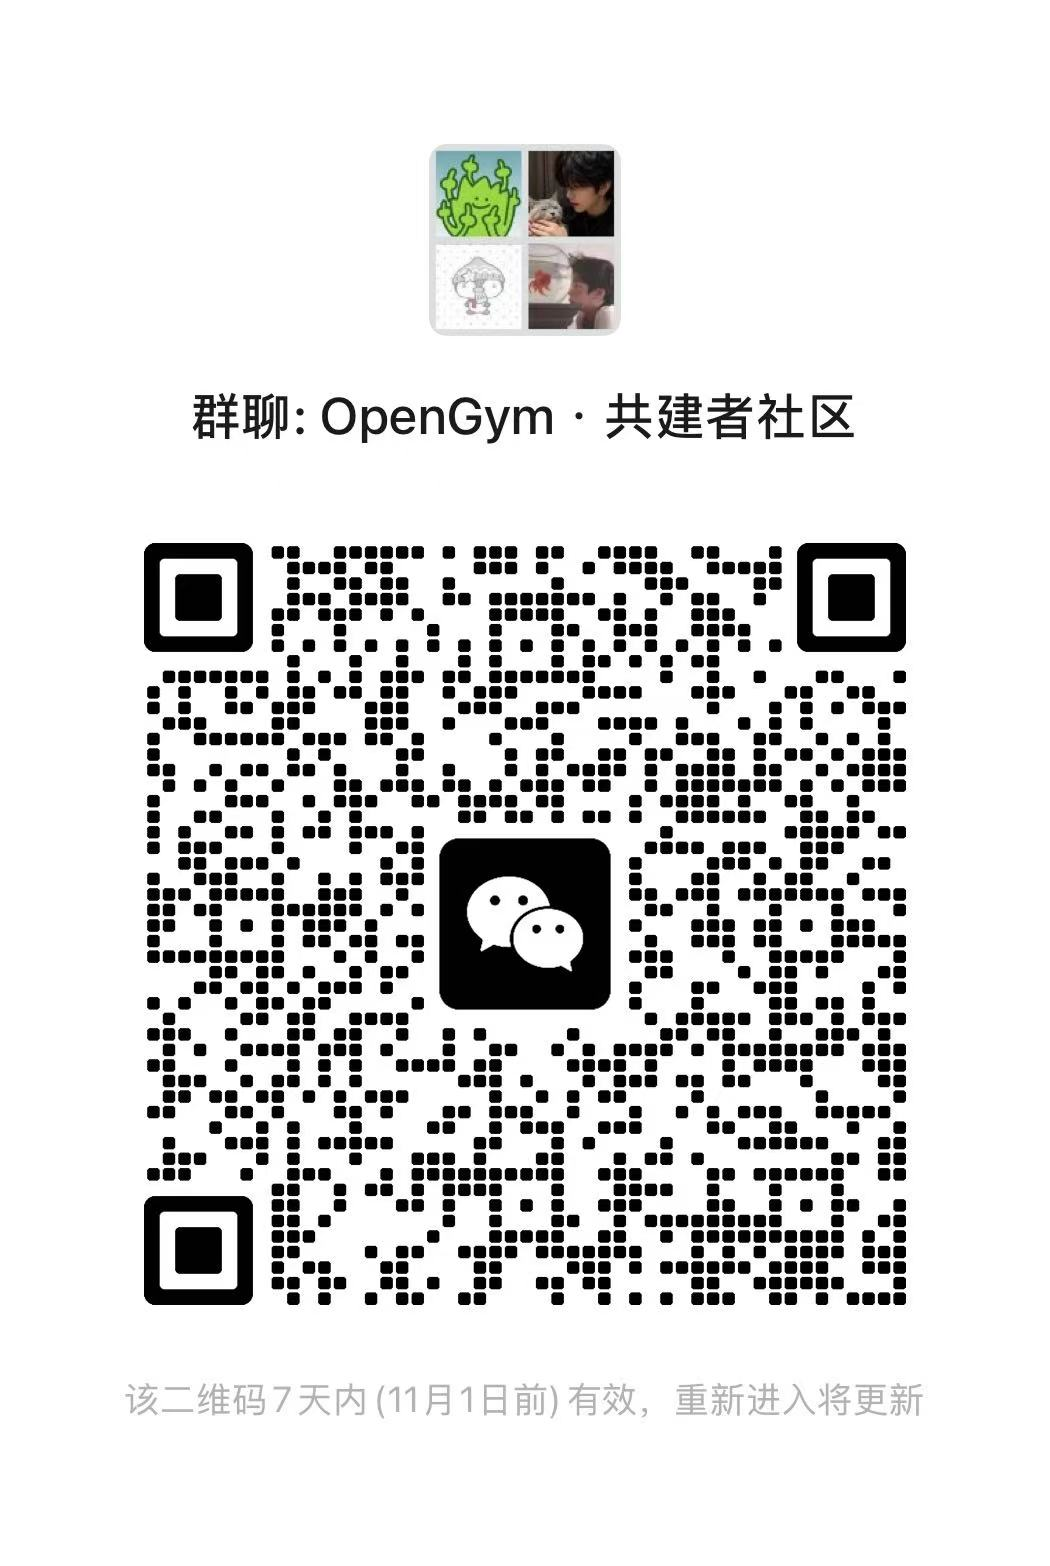
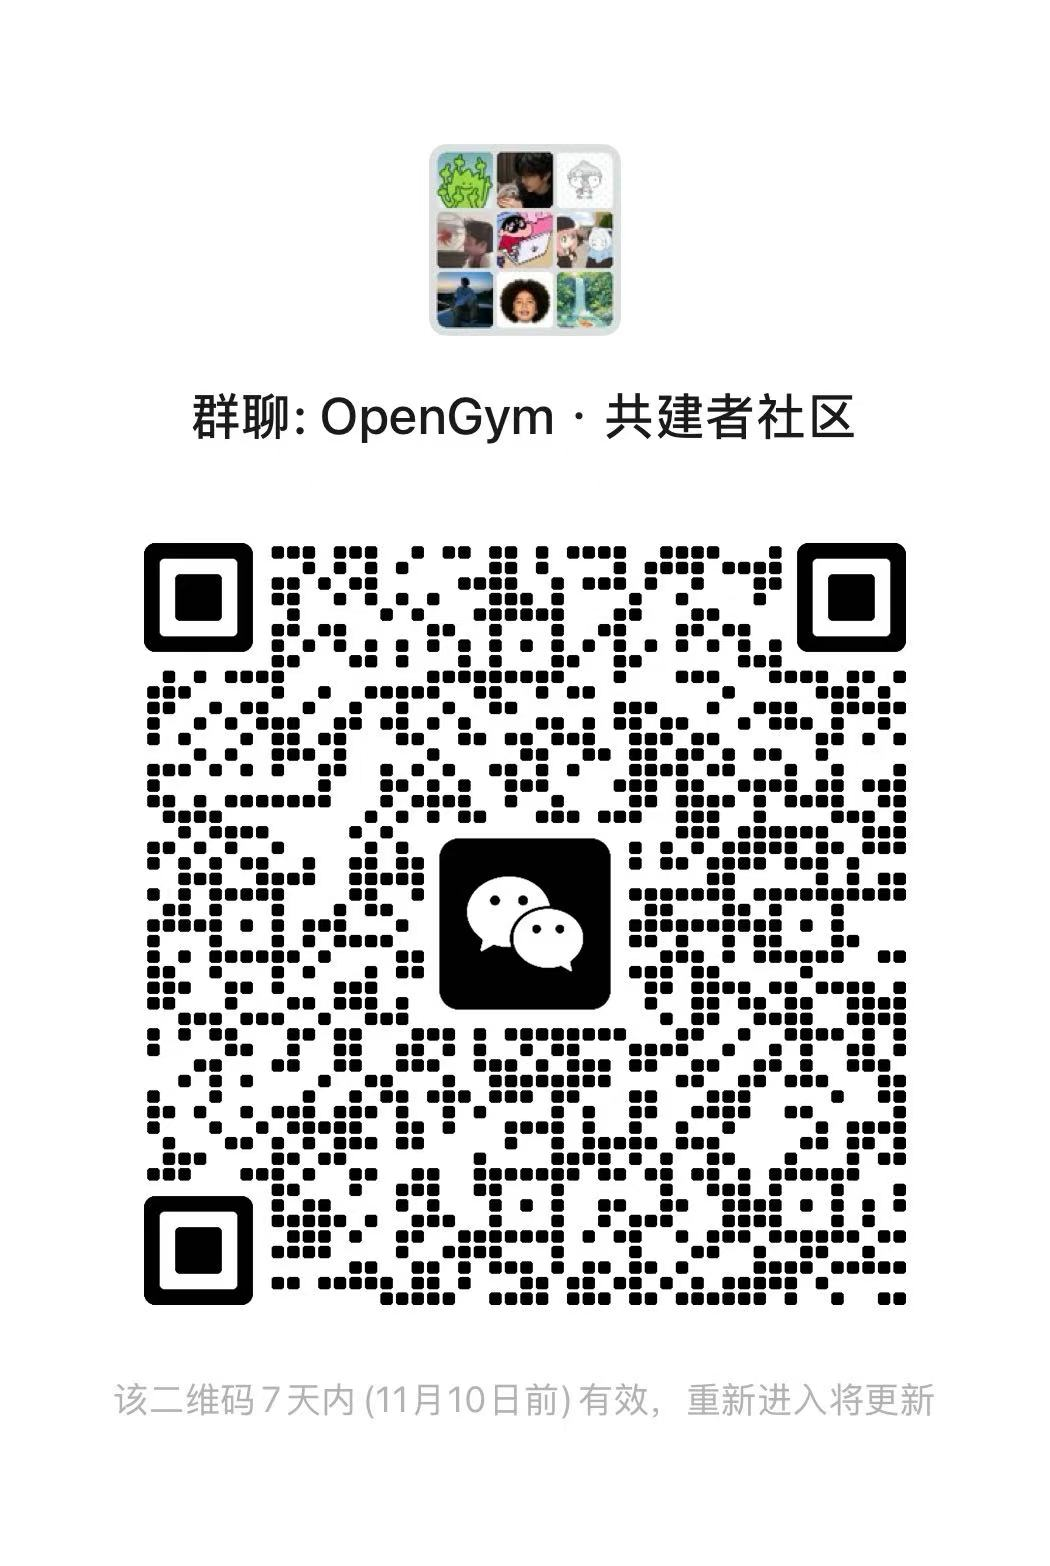
Renew community QR invitation through November 10

diff --git a/frontend/src/components/AuthorExperience.test.jsx b/frontend/src/components/AuthorExperience.test.jsx
@@ -17,7 +17,7 @@ beforeEach(()=>{globalThis.IS_REACT_ACT_ENVIRONMENT=true;host=document.createEle
 afterEach(()=>{act(()=>root.unmount());host.remove();vi.useRealTimers();vi.restoreAllMocks()})
 const render=async node=>act(async()=>root.render(<MemoryRouter>{node}</MemoryRouter>))
 it('changes local-time greeting at every boundary',()=>{for(const [h,label] of [[0,'夜深了'],[4,'夜深了'],[5,'早上好'],[10,'早上好'],[11,'中午好'],[13,'中午好'],[14,'下午好'],[17,'下午好'],[18,'晚上好'],[22,'晚上好'],[23,'夜深了']])expect(timeGreeting(new Date(2026,9,25,h))).toBe(label)})
-it('expires the group QR at the printed deadline',async()=>{expect(communityQRActive(new Date('2026-10-31T15:59:59Z'))).toBe(true);expect(communityQRActive(new Date('2026-10-31T16:00:00Z'))).toBe(false);vi.useFakeTimers();vi.setSystemTime(new Date('2026-11-02'));await render(<CommunityInvite/>);expect(host.querySelector('img')).toBeNull();expect(host.textContent).toContain('已到期');expect(host.querySelector('a').href).toContain('wechat.jpeg')})
+it('expires the group QR at the printed deadline',async()=>{expect(communityQRActive(new Date('2026-11-09T15:59:59Z'))).toBe(true);expect(communityQRActive(new Date('2026-11-09T16:00:00Z'))).toBe(false);vi.useFakeTimers();vi.setSystemTime(new Date('2026-11-11'));await render(<CommunityInvite/>);expect(host.querySelector('img')).toBeNull();expect(host.textContent).toContain('已到期');expect(host.querySelector('a').href).toContain('wechat.jpeg')})
 it('invites first-time accounts once, traps focus and can be reopened manually',async()=>{await render(<WelcomeGuide/>);expect(host.textContent).toContain('欢迎加入 OpenGym');expect(host.textContent).toContain('共建者社区');expect(document.activeElement).toBe(host.querySelector('[role=dialog]'));await act(async()=>document.dispatchEvent(new KeyboardEvent('keydown',{key:'Escape',bubbles:true})));expect(useStore.getState().S.welcomeVersion).toBe(1);await render(<WelcomeGuide key="revisit"/>);expect(host.querySelector('[role=dialog]')).toBeNull();await render(<WelcomeGuide key="manual" manual/>);expect(host.querySelector('[role=dialog]')).not.toBeNull()})
 it('hides healthy routine status but retains failed and pending meal warnings',async()=>{await render(<RecordStatus warningsOnly/>);expect(host.textContent).toBe('');await act(async()=>useStore.setState({sync:{status:'error'}}));expect(host.textContent).toContain('同步失败');await act(async()=>{useStore.setState({sync:{status:'ok'}});useLifestyle.setState({pendingMeals:[{}]})});expect(host.textContent).toContain('等待同步');expect(host.textContent).not.toContain('训练：已同步')})
 it('shows all supplied destinations and submits feedback through the authenticated API',async()=>{await render(<Author/>);for(const url of ['https://github.com/linyuchao123','https://github.com/linyuchao123/OpenGym','https://x.com/xiaolinyx123','https://xiaolinyx.me','mailto:476638303@qq.com','mailto:lyc2416455041@gmail.com'])expect([...host.querySelectorAll('a')].some(a=>a.getAttribute('href')===url)).toBe(true);expect(host.textContent).toContain('老林的AI探秘日常');const field=host.querySelector('textarea');await act(async()=>{Object.getOwnPropertyDescriptor(HTMLTextAreaElement.prototype,'value').set.call(field,'希望增加训练提醒');field.dispatchEvent(new Event('input',{bubbles:true}));field.dispatchEvent(new Event('change',{bubbles:true}))});await act(async()=>host.querySelector('form').dispatchEvent(new Event('submit',{bubbles:true,cancelable:true})));expect(api).toHaveBeenCalledWith('/api/life/feedback',expect.objectContaining({method:'POST'}))})

diff --git a/frontend/src/components/CommunityInvite.jsx b/frontend/src/components/CommunityInvite.jsx
@@ -7,7 +7,7 @@ export default function CommunityInvite({compact=false}) {
  return <section className={'author-community '+(compact?'compact':'')}>
   <h2>OpenGym · 共建者社区</h2>
   <p>一起聊训练、分享使用心得。发现 Bug、希望改进的体验、期待的新功能，都欢迎告诉我。</p>
-  {active ? <><a href="/author/community.jpg" target="_blank" rel="noopener noreferrer" aria-label="打开完整共建群二维码"><img className="community-qr" src="/author/community.jpg" alt="OpenGym 共建者社区微信群邀请二维码"/></a><p className="small muted">群二维码有效至 2026 年 11 月 1 日前。点击图片放大，可长按保存后在微信识别。</p></> : <p>这张群二维码已到期，请通过作者微信联系我，备注“OpenGym 入群”。</p>}
+  {active ? <><a href="/author/community-20261103.jpg" target="_blank" rel="noopener noreferrer" aria-label="打开完整共建群二维码"><img className="community-qr" src="/author/community-20261103.jpg" alt="OpenGym 共建者社区微信群邀请二维码"/></a><p className="small muted">群二维码有效至 2026 年 11 月 10 日前。点击图片放大，可长按保存后在微信识别。</p></> : <p>这张群二维码已到期，请通过作者微信联系我，备注“OpenGym 入群”。</p>}
   <a className="life-link" href="/author/wechat.jpeg" target="_blank" rel="noopener noreferrer">备用入口：添加作者微信，备注 OpenGym</a>
  </section>
 }

diff --git a/frontend/src/lib/author.js b/frontend/src/lib/author.js
@@ -1,5 +1,5 @@
 // Replace the group image and expiry together when renewing the WeChat invitation.
-export const COMMUNITY_QR_EXPIRES = '2026-11-01T00:00:00+08:00'
+export const COMMUNITY_QR_EXPIRES = '2026-11-10T00:00:00+08:00'
 export const communityQRActive = (now = new Date()) => now.getTime() < new Date(COMMUNITY_QR_EXPIRES).getTime()
 export function timeGreeting(date = new Date()) {
  const hour = date.getHours()
